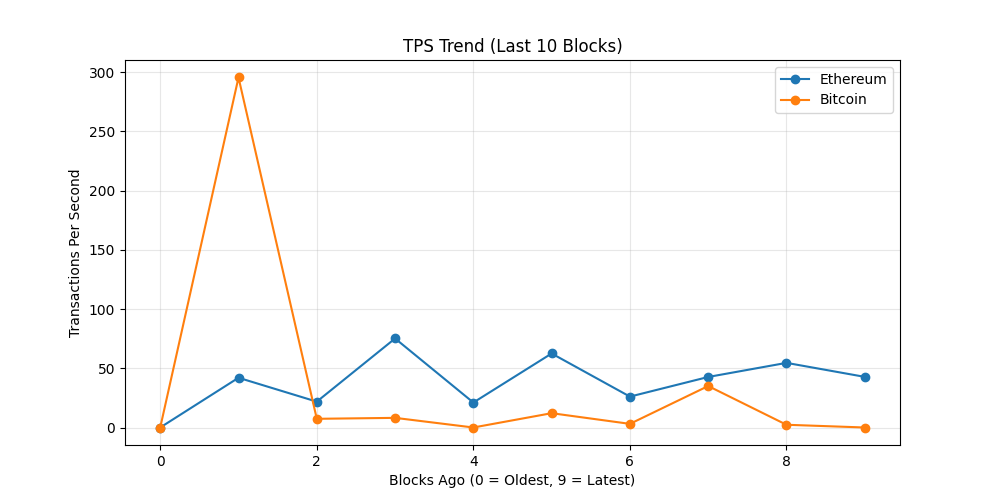
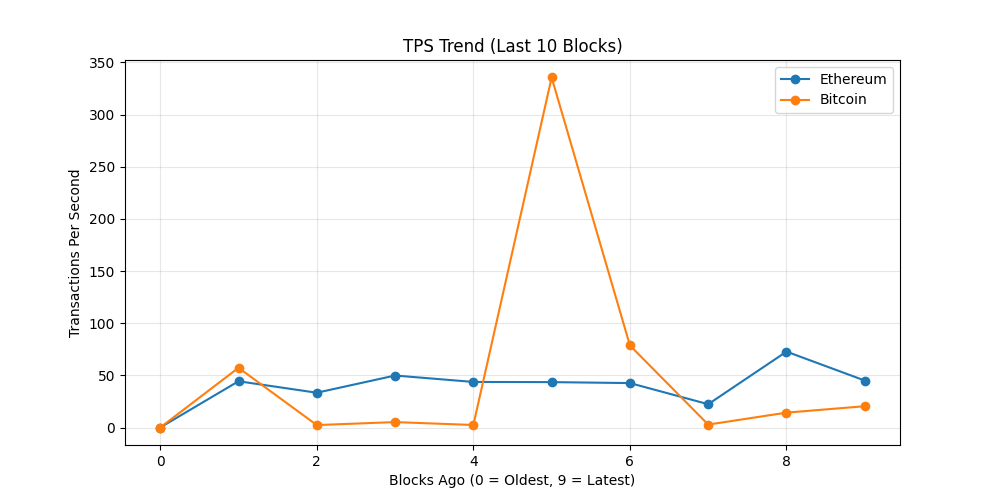
chore: update on-chain dashboard

diff --git a/README.md b/README.md
@@ -19,7 +19,7 @@ The README itself acts as the dashboard and is regenerated automatically on a 6 
 demonstrating a production-style, infrastructure-focused observability workflow rather
 than a traditional UI-driven approach.
 
-_Last updated: 2026-01-23 02:29 UTC_
+_Last updated: 2026-01-23 06:52 UTC_
 
 ## API Usage (GetBlock.io)
 - Calls used: **24**
@@ -27,8 +27,8 @@ _Last updated: 2026-01-23 02:29 UTC_
 ## Network Metrics
 | Chain | Block Height | TX Count | TPS (10 blk avg) | Block Util | Avg Fee |
 |------|-------------|----------|------------------|------------|---------|
-| Ethereum | 24294508 | 513 | 42.75 | 55.03% | 0.0 Gwei |
-| Bitcoin | 933462 | 364 | 0.0 | 8.77% | N/A |
+| Ethereum | 24295815 | 540 | 45.0 | 43.96% | 0.0 Gwei |
+| Bitcoin | 933489 | 5243 | 20.4 | 99.79% | N/A |
 
 ## Visuals
 ### Transactions Trend
@@ -43,7 +43,8 @@ _Last updated: 2026-01-23 02:29 UTC_
 ## Whale Alerts (latest block)
 - Transaction hashes are truncated for readability.
 - Full hashes are available in `dashboards/metrics.json`
-- Bitcoin | 109.39 BTC | `3cf46a586442…`
+- Bitcoin | 501.83 BTC | `bfe0554c85e7…`
+- Bitcoin | 501.83 BTC | `21026ffa7808…`
 
 ## Run locally
 
